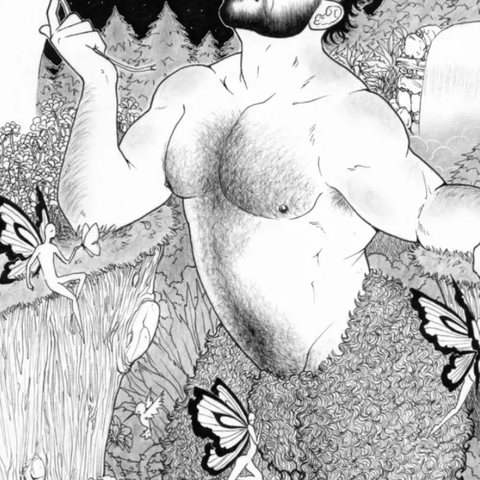
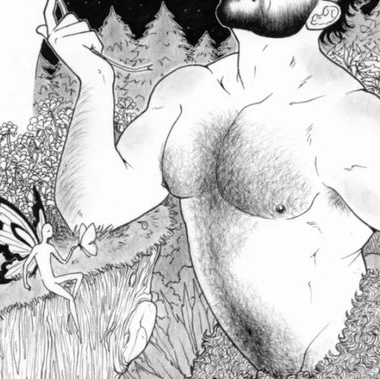
Password gate, remove 2 tiles, new crops for jugodepapaya_torso_3 + prettys_babes_legs_1
Claude-Session: https://claude.ai/code/session_01HQMke6FXhw84BtJSXGjbTw

diff --git a/index.html b/index.html
@@ -201,6 +201,15 @@
   .cr-card .go{flex:none;height:36px;padding:0 14px;border-radius:18px;background:var(--acc);color:#000;font-weight:800;font-size:13px;display:flex;align-items:center;text-decoration:none;white-space:nowrap}
   .cr-card .pend{font-size:10px;font-weight:800;letter-spacing:1px;text-transform:uppercase;color:var(--danger)}
   #about .small{font-size:12px;color:var(--mut)}
+  /* ---- password gate ---- */
+  #gate{display:flex;flex-direction:column;align-items:center;gap:10px;width:100%;max-width:290px}
+  #gate[hidden],#play[hidden]{display:none}
+  #gate input{width:100%;height:52px;border-radius:26px;border:0;background:var(--card);color:var(--txt);font-size:18px;text-align:center;
+    outline:none;user-select:text;-webkit-user-select:text;touch-action:auto;font-family:inherit;letter-spacing:2px}
+  #gate input:focus{box-shadow:0 0 0 2px var(--acc)}
+  #gate .err{color:var(--danger);font-size:13px;font-weight:700;min-height:16px}
+  #gate.bad input{animation:shkb .35s;box-shadow:0 0 0 2px var(--danger)}
+  #gate .btn{margin-top:0;width:100%;justify-content:center}
   .hint{position:absolute;bottom:80px;left:0;right:0;text-align:center;font-size:12px;color:var(--mut);letter-spacing:.5px;z-index:2}
 </style>
 </head>
@@ -253,6 +262,11 @@
     </div>
     <p style="font-size:13px">Tap a column to move, tap again to drop. Two of a kind burn each other. Press and hold a profile to ⊘ block it.</p>
     <button class="btn" id="play">Try right now</button>
+    <form id="gate" hidden autocomplete="off">
+      <input id="pw" type="password" placeholder="Password" aria-label="Password" autocapitalize="off" autocorrect="off" spellcheck="false">
+      <span class="err" id="pwErr"></span>
+      <button class="btn" type="submit">Enter</button>
+    </form>
     <button class="btn ghostbtn" data-about style="height:44px;font-size:15px;margin-top:0">About &amp; artists</button>
   </div>
 
@@ -374,7 +388,6 @@ const CREATOR_TILES=[
   'jugodepapaya_torso_1',
   'jugodepapaya_torso_2',
   'jugodepapaya_torso_3',
-  'lukaszleja_feet_1',
   'lukaszleja_feet_2',
   'lukaszleja_torso_1',
   'lukaszleja_torso_2',
@@ -383,7 +396,6 @@ const CREATOR_TILES=[
   'prettys_babes_feet_2',
   'prettys_babes_feet_3',
   'prettys_babes_feet_4',
-  'prettys_babes_feet_5',
   'prettys_babes_legs_1',
   'prettys_babes_torso_1',
   'silverandgelatin_legs_1',
@@ -640,9 +652,18 @@ grid.addEventListener('pointerup',e=>{
   const r=grid.getBoundingClientRect(); const col=Math.floor((e.clientX-r.left-OX)/CW);
   moveTo(Math.max(0,Math.min(COLS-1,col)));
 });
-addEventListener('keydown',e=>{ if(e.key==='Escape'||e.key==='p'){ if(!$('#about').hidden)closeAbout(); else if(S&&S.paused)resume(); else pause(); return }
+addEventListener('keydown',e=>{ if(e.target.tagName==='INPUT')return; if(e.key==='Escape'||e.key==='p'){ if(!$('#about').hidden)closeAbout(); else if(S&&S.paused)resume(); else pause(); return }
   if(!S||!S.running)return; if(e.key==='ArrowLeft')move(-1); else if(e.key==='ArrowRight')move(1); else if(e.key==='ArrowDown'||e.key===' '){e.preventDefault();hardDrop()} });
-$('#play').onclick=start; $('#again').onclick=start;
+/* ---------- password gate (keeps casual visitors out; NOT real security: files stay public on GitHub) ---------- */
+const PW_HASH=0x6df81fd0;
+const fnv=t=>{ let h=0x811c9dc5; for(const c of new TextEncoder().encode(t)){ h^=c; h=Math.imul(h,0x01000193)>>>0 } return h; };
+let UNLOCKED=false; try{UNLOCKED=localStorage.getItem('hl_ok')===String(PW_HASH)}catch(e){}
+$('#play').onclick=()=>{ if(UNLOCKED)return start(); $('#play').hidden=true; $('#gate').hidden=false; $('#pw').focus(); };
+$('#gate').addEventListener('submit',e=>{ e.preventDefault(); audio();
+  if(fnv($('#pw').value.trim().toLowerCase())===PW_HASH){ UNLOCKED=true; try{localStorage.setItem('hl_ok',String(PW_HASH))}catch(e){}
+    $('#gate').hidden=true; $('#play').hidden=false; $('#pw').value=''; start(); }
+  else{ const g=$('#gate'); g.classList.remove('bad'); g.offsetHeight; g.classList.add('bad'); $('#pwErr').textContent='Wrong password'; buzz(60); tone(160,.2,'sawtooth',.06); } });
+$('#again').onclick=start;
 $('#me').addEventListener('click',()=>{ audio(); if(S&&S.running)pause(); else if(S&&S.paused)resume(); else openAbout(); });
 $('#resume').onclick=resume; $('#restart').onclick=start;
 document.querySelectorAll('[data-about]').forEach(b=>b.onclick=openAbout);
